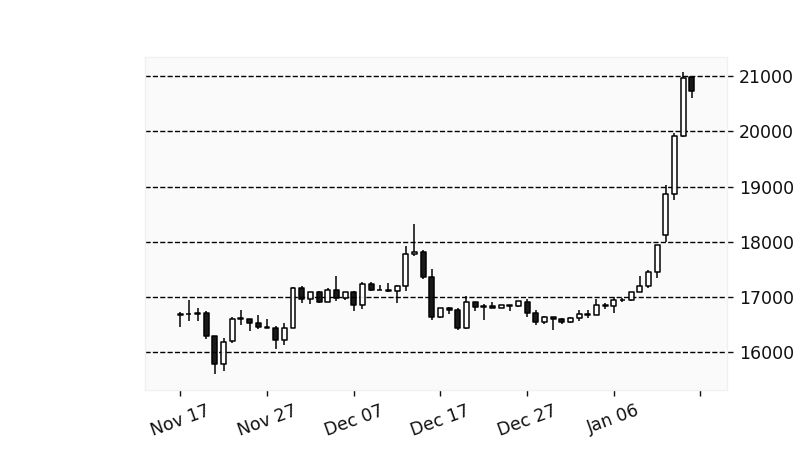
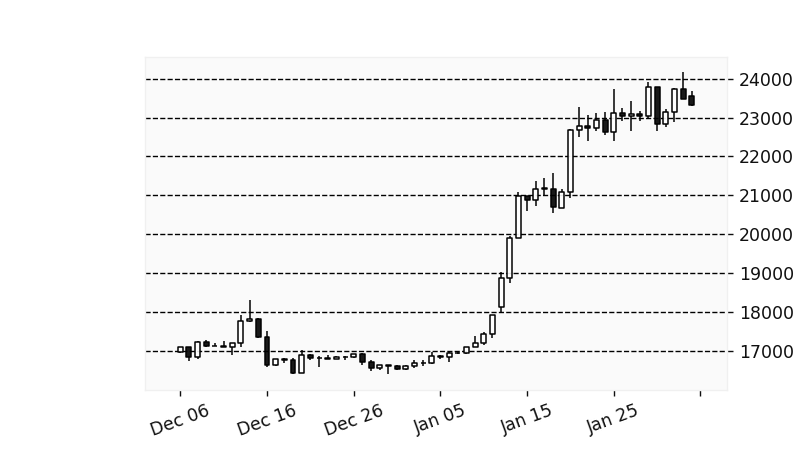
Adjust to yfinance changes

diff --git a/coin-info.py b/coin-info.py
@@ -42,7 +42,8 @@ def get_coin_info(yf_symbol):
     coin = yf.Ticker(yf_symbol)
     data = yf.Ticker(yf_symbol).history("60d")
     data['Volume'] = data['Volume'] / 1000000
-    return coin, data
+    fast_info = yf.Ticker(yf_symbol).fast_info
+    return coin, data, fast_info
 
 
 def build_ticker_plot(ticker_data, ticker_plot_size_in, dpi, ticker_plot):
@@ -88,9 +89,8 @@ def show_param(draw, pos, label, value):
     return pos_x, pos_y + 60
 
 
-def compile_visual(coin, display_size_px, visual_input, visual_output):
+def compile_visual(coin, fast_info, display_size_px, visual_input, visual_output):
 
-    print(coin.info)
     im1 = Image.open(visual_input)
     im1 = make_image_transparent(im1)
     image_box = im1.getbbox()
@@ -123,26 +123,26 @@ def compile_visual(coin, display_size_px, visual_input, visual_output):
     draw.text((pos_x, pos_y), text, font=font22, fill=0)
 
     pos = (10, 120)
-    value = f"{coin.info['regularMarketPrice']:,.0f}"
+    value = f"{fast_info['last_price']:,.0f}"
     pos = show_param(draw, pos, 'Price', value)
 
-    value = f"{coin.info['dayHigh']:,.0f}"
+    value = f"{fast_info['day_high']:,.0f}"
     pos = show_param(draw, pos, 'High', value)
 
-    value = f"{coin.info['dayLow']:,.0f}"
+    value = f"{fast_info['day_low']:,.0f}"
     pos = show_param(draw, pos, 'Low', value)
 
-    value = f"{coin.info['previousClose']:,.0f}"
+    value = f"{fast_info['regular_market_previous_close']:,.0f}"
     pos = show_param(draw, pos, 'Last Close', value)
 
-    value = f"{coin.info['twoHundredDayAverage']:,.0f}"
+    value = f"{fast_info['two_hundred_day_average']:,.0f}"
     show_param(draw, pos, 'Average 200', value)
 
-    value = f"{coin.info['volume24Hr']:,.0f}"
+    value = f"{fast_info['last_volume']:,.0f}"
     show_param(draw, (400, 10), 'Volume 24h', value)
 
-    value = f"{coin.info['marketCap']:,.0f}"
-    show_param(draw, (600, 10), 'Marketcap', value)
+    value = f"{fast_info['market_cap']:,.0f}"
+    show_param(draw, (600, 10), 'Market Cap', value)
 
     im.save(visual_output)
 
@@ -152,11 +152,11 @@ def compile_visual(coin, display_size_px, visual_input, visual_output):
 def build_ticker_display(symbol, plot_size_in, plot_dpi, display_size_px):
 
     logging.info("Get coin info...")
-    coin, data = get_coin_info(symbol)
+    coin, data, fast_info = get_coin_info(symbol)
     logging.info("Build candle chart...")
     build_ticker_plot(data, plot_size_in, plot_dpi, 'ticker.png')
     logging.info("Build dashboard...")
-    im = compile_visual(coin, display_size_px, 'ticker.png', 'display.png')
+    im = compile_visual(coin, fast_info, display_size_px, 'ticker.png', 'display.png')
     logging.info("Done.")
 
     return im
